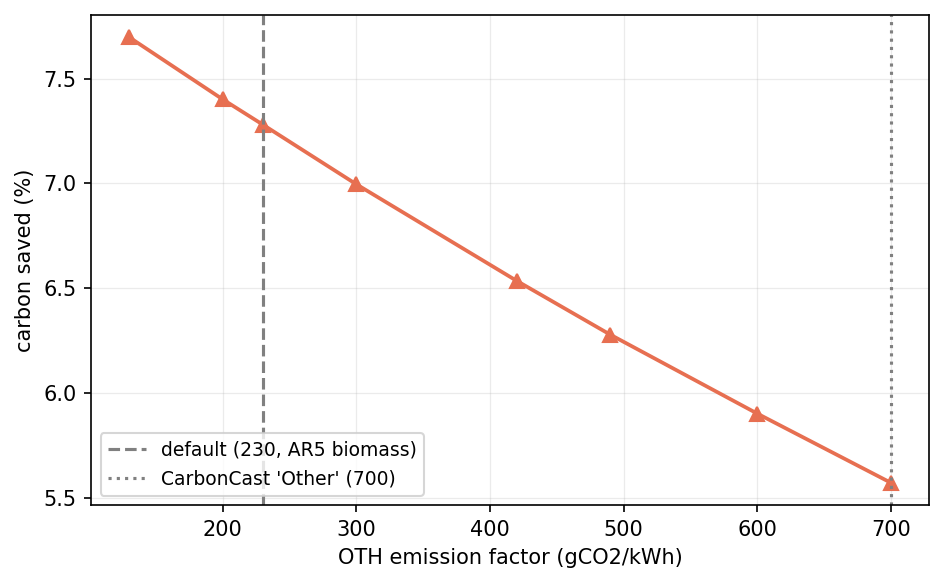
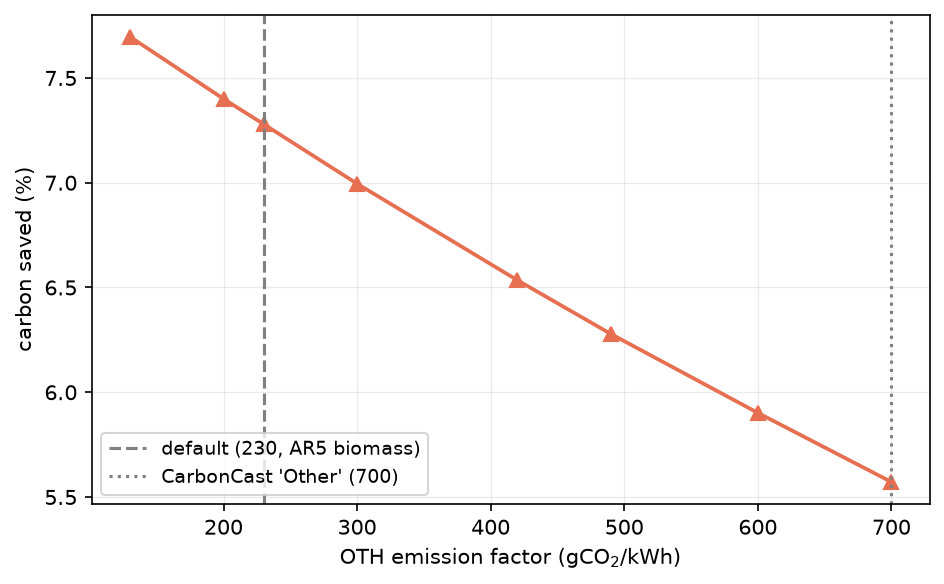
fix(figures): complete axis labels and units on 01, 04a, 04c, 04d
Reviewer 2 asked for complete label and unit annotation. Four figures fell
short:

- 01: the colorbar gave only a unit; it now names the quantity,
  "carbon intensity (gCO2/kWh)", with a proper subscript.
- 04a: the x-axis read "flex_hours (slack granted each HVAC hour)" -- a code
  identifier, no unit, and wrong, since HVAC slack is twice flex. Now
  "deadline flexibility (± hours around the metered hour)".
- 04c: single-letter month ticks (three J's) replaced with Jan..Dec.
- 04d: gCO2 subscript.

The scripts had drifted from the committed figures, so regenerating them
changed more than the labels. restyle_figures_a.py used viridis where the
submitted heatmap is viridis_r, and 04a had lost the gridlines the notebooks'
rcParams add. Both now reproduce the committed figures; plotted values are
unchanged. The notebook label strings are updated too, so re-running a
notebook does not revert the fix.

Only these four figures were regenerated. 02, 03, 04b and 05 belong to
fig_r1.py and are untouched.

diff --git a/scripts/restyle_figures_b.py b/scripts/restyle_figures_b.py
@@ -69,7 +69,8 @@ def fig04c(ci, hv, rh):
         fb = U.do_nothing_gco2(jm, rm, ci)
         op = schedule(jm, ci, capacity_kw=cap, baseline_hours=rm)["total_gco2"]
         sav.append(U.savings_pct(fb, op))
-    labels = list("JFMAMJJASOND")
+    labels = ["Jan", "Feb", "Mar", "Apr", "May", "Jun",
+              "Jul", "Aug", "Sep", "Oct", "Nov", "Dec"]
     fig, ax = plt.subplots(figsize=(7.0, 3.8))
     ax.bar(range(12), sav, color="#4c7fa3", width=0.7)
     ax.set_xticks(range(12)); ax.set_xticklabels(labels)
@@ -96,7 +97,7 @@ def fig04d(mix, hv, rh):
     ax.plot(OTH_VALS, sav, "^-", color="#e76f51", lw=1.8, ms=7)
     ax.axvline(230, ls="--", color="gray", label="default (230, AR5 biomass)")
     ax.axvline(700, ls=":", color="gray", label="CarbonCast 'Other' (700)")
-    ax.set_xlabel("OTH emission factor (gCO2/kWh)"); ax.set_ylabel("carbon saved (%)")
+    ax.set_xlabel("OTH emission factor (gCO$_2$/kWh)"); ax.set_ylabel("carbon saved (%)")
     ax.grid(alpha=0.25, lw=0.6); ax.set_axisbelow(True)
     ax.legend(loc="lower left", fontsize=9)
     fig.tight_layout(); U.savefig(fig, "04d_savings_vs_oth_factor.png")

diff --git a/scripts/restyle_figures_a.py b/scripts/restyle_figures_a.py
@@ -32,13 +32,13 @@ def fig01(ci):
                           "hour": c_std.index.hour})
             .groupby(["month", "hour"])["ci"].mean().unstack("hour"))
     fig, ax = plt.subplots(figsize=(8.6, 4.2))
-    im = ax.imshow(grid.values, aspect="auto", origin="lower", cmap="viridis",
+    im = ax.imshow(grid.values, aspect="auto", origin="lower", cmap="viridis_r",
                    extent=[0, 24, 0.5, 12.5])
     ax.set_yticks(range(1, 13))
     ax.set_yticklabels(["Jan","Feb","Mar","Apr","May","Jun","Jul","Aug","Sep","Oct","Nov","Dec"])
     ax.set_xticks(range(0, 25, 2))
     ax.set_xlabel("hour of day (standard time, UTC$-$5)"); ax.set_ylabel("month")
-    fig.colorbar(im, ax=ax, label="gCO2/kWh")
+    fig.colorbar(im, ax=ax, label="carbon intensity (gCO$_2$/kWh)")
     fig.tight_layout(); U.savefig(fig, "01_ci_heatmap.png")
     print(f"[01] month x hour mean CI: min={grid.values.min():.1f} "
           f"max={grid.values.max():.1f} gCO2/kWh over {len(c):,} hours")

diff --git a/scripts/restore_figures.py b/scripts/restore_figures.py
@@ -79,8 +79,9 @@ def fig04a(ci, hvac_df):
 
     fig, ax = plt.subplots(figsize=(6, 3.6))
     ax.plot(flex_vals, sav_flex, "o-", color="#2a9d8f")
-    ax.set_xlabel("flex_hours (slack granted each HVAC hour)")
+    ax.set_xlabel("deadline flexibility (± hours around the metered hour)")
     ax.set_ylabel("carbon saved (%)")
+    ax.grid(alpha=0.3)  # the notebooks set axes.grid globally; match the committed figure
     fig.tight_layout(); U.savefig(fig, "04a_savings_vs_flex.png")
 
     print("[04a] HVAC-only, uncapped greedy, x-axis is flex_hours (NOT slack):")
